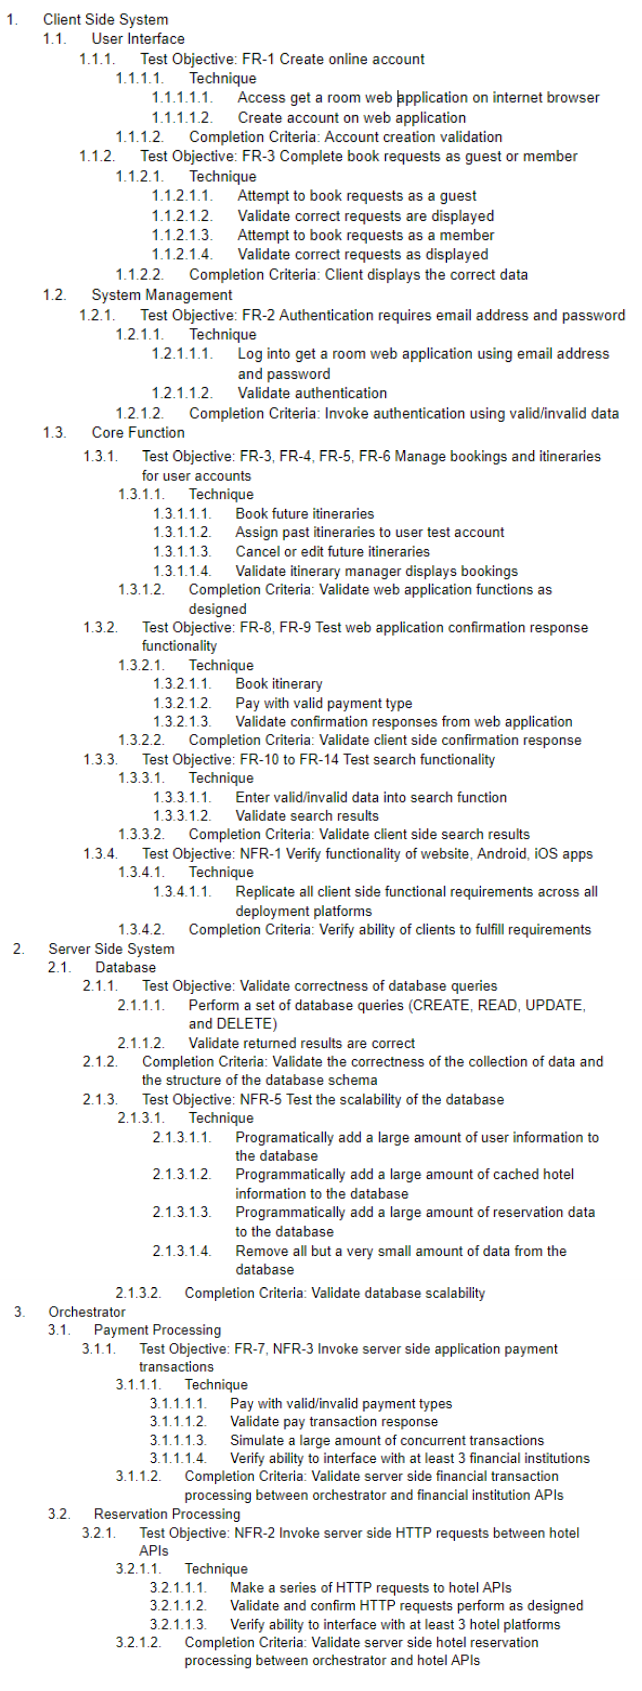
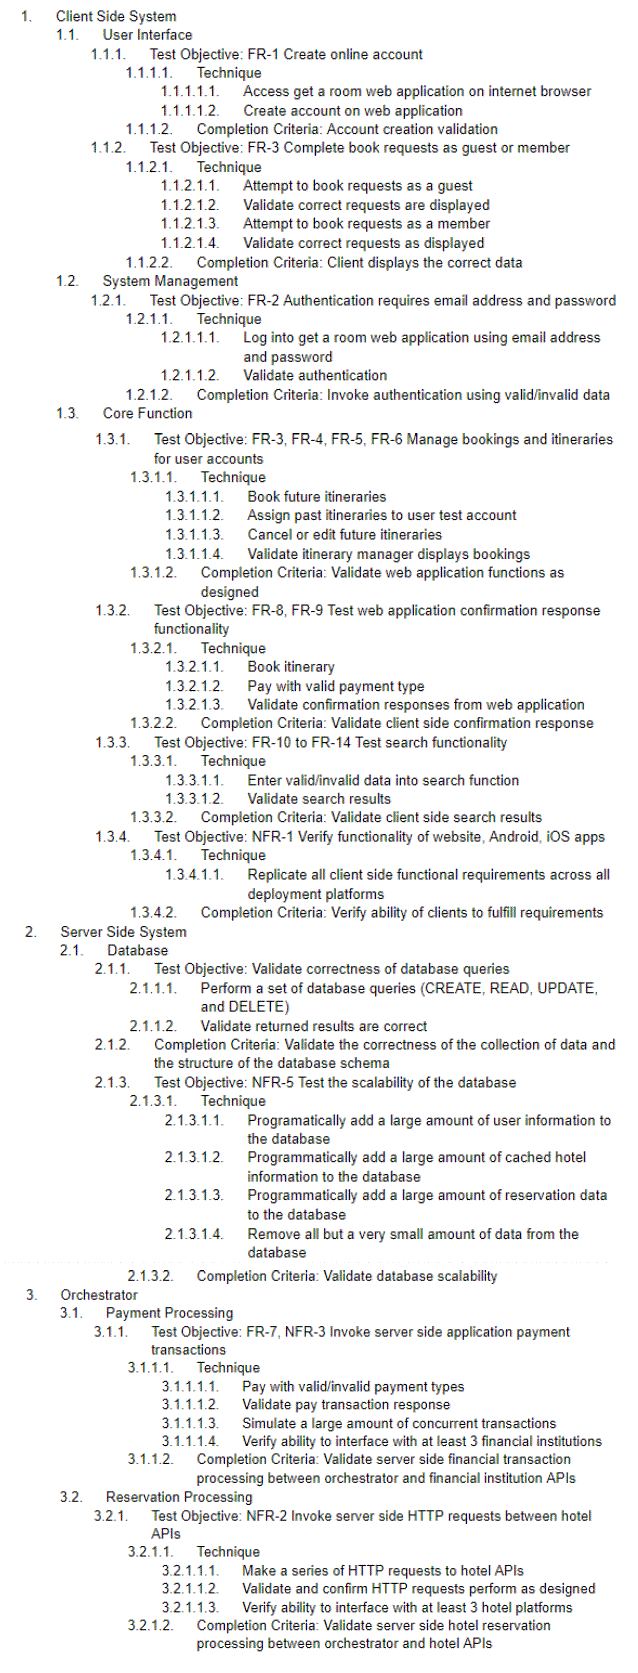
fixed image

Changed region(s): [[0.0596, 0.0, 0.9828, 0.9946], [0.0893, 0.8703, 0.1191, 0.9014]]

diff --git a/index.html b/index.html
@@ -212,8 +212,8 @@ ol li:before {
   
   <!-- Part 3 Test Plan-->
   <h2 class="w3-text-teal">Part 3: Test Procedure for Build</h2>
-  <img src="images/test_plan_pics.PNG" style="
-      margin: auto;" width="auto" height="auto"></img> -->
+  <img src="images/test_plan_pic.PNG" style="
+      margin: auto;" width="auto" height="auto"></img>
   <!-- <ol>
     <li>Client Side System</li>
     <ol>

diff --git a/test-procedure.html b/test-procedure.html
@@ -67,8 +67,8 @@ ol li:before {
 
   <!-- Part 3 Test Plan-->
   <h2 class="w3-text-teal">Part 3: Test Procedure for Build</h2>
-  <img src="images/test_plan_pics.PNG" style="
-  margin: auto;" width="auto" height="auto"></img> -->
+  <img src="images/test_plan_pic.PNG" style="
+  margin: auto;" width="auto" height="auto"></img>
   <!-- <ol>
     <li>Client Side System</li>
     <ol>
